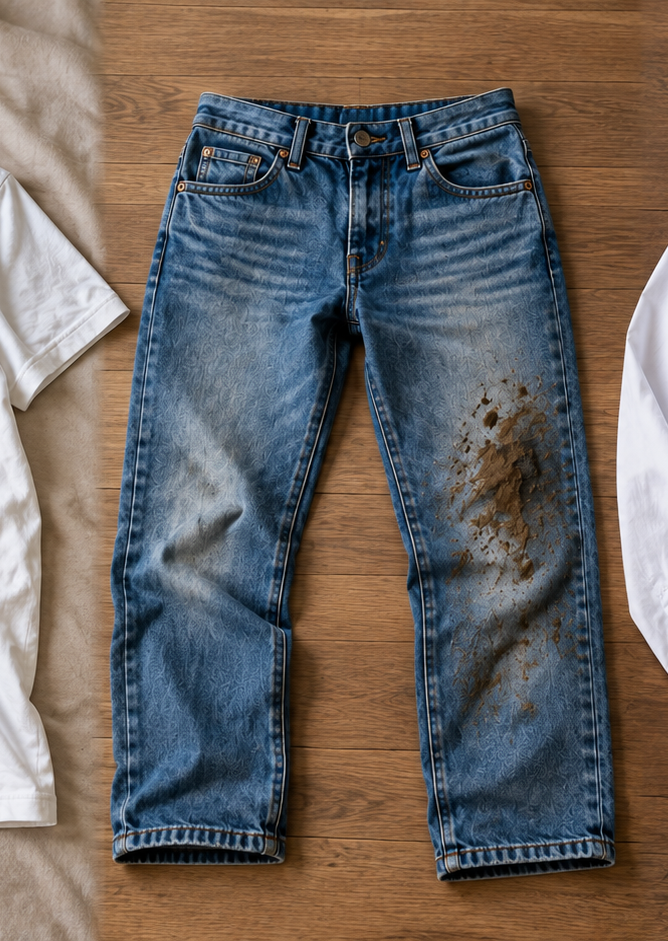
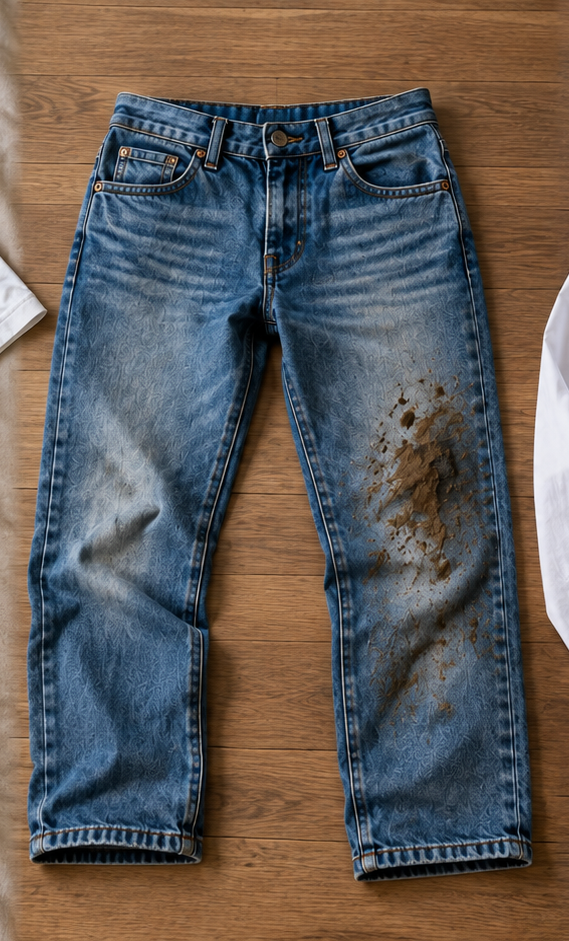
fix(swasho-ai): use three demo garment photos full-screen in analysis
Wire each scenario to its flat-lay analysis crop (t-shirt, jeans, shirt)
instead of the hanger backdrop for the dress shirt.

diff --git a/SwashoPrototypev2/src/constants/swasho-ai-demo-scenarios.ts b/SwashoPrototypev2/src/constants/swasho-ai-demo-scenarios.ts
@@ -41,7 +41,7 @@ const CARD_WHITE_SHIRT = require('@/assets/images/swasho-ai/demo/white-shirt-col
 /** Full-bleed analysis photos (Figma AI Capturing 3415:17875). */
 const ANALYSIS_WHITE_TSHIRT = require('@/assets/images/swasho-ai/demo/demo-analysis-white-tshirt-coffee.png') as ImageSourcePropType;
 const ANALYSIS_BLUE_JEANS = require('@/assets/images/swasho-ai/demo/demo-analysis-blue-jeans-mud.png') as ImageSourcePropType;
-const ANALYSIS_WHITE_SHIRT = require('@/assets/images/swasho-ai/demo/selection-backdrop.png') as ImageSourcePropType;
+const ANALYSIS_WHITE_SHIRT = require('@/assets/images/swasho-ai/demo/demo-analysis-white-shirt-collar.png') as ImageSourcePropType;
 
 export const SWASHO_AI_DEMO_FLAT_LAY_THUMB = FLAT_LAY_THUMB;
 export const SWASHO_AI_DEMO_FLAT_LAY_ANALYSIS = FLAT_LAY_ANALYSIS;
